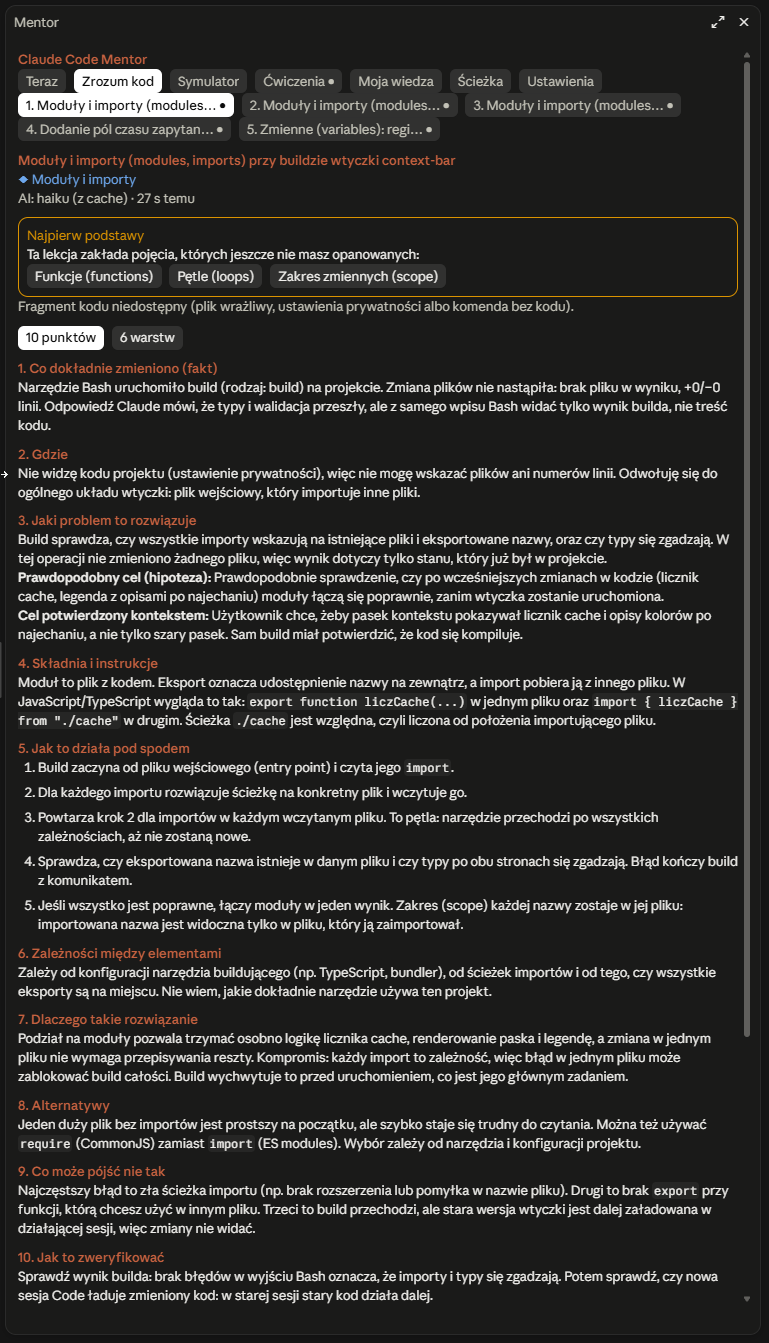
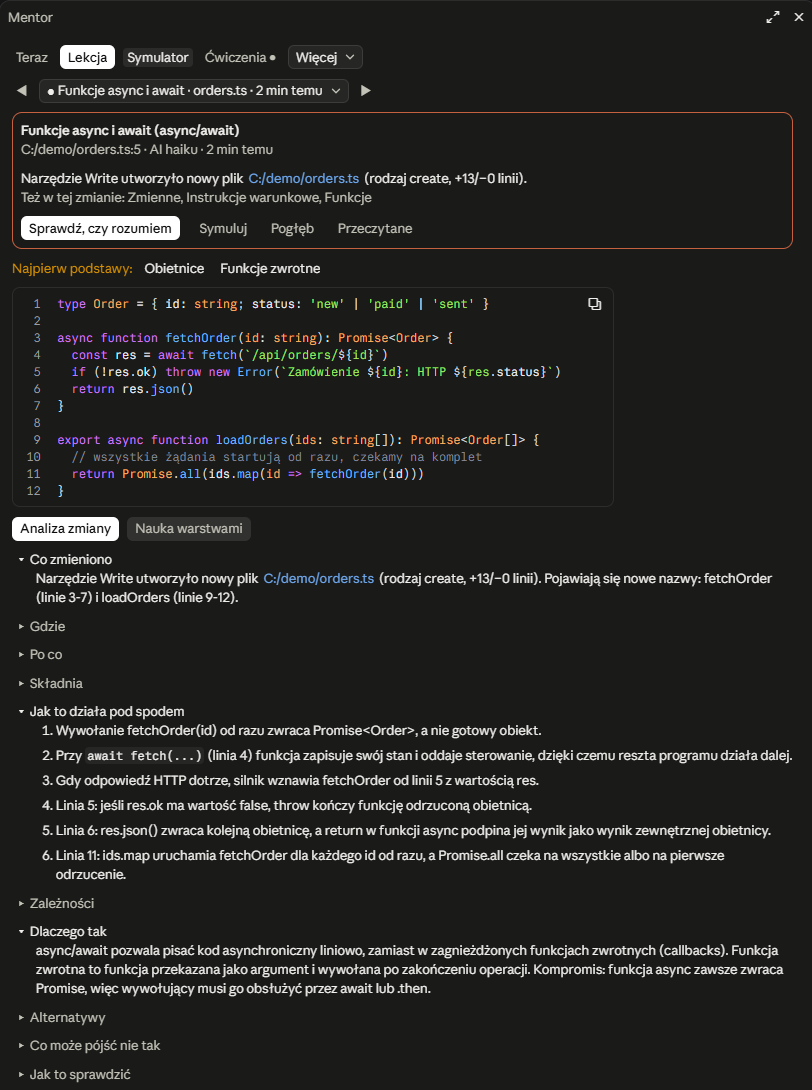
mentor: nowe zrzuty w readme, lekcje ai nie giną na limicie tokenów
odpowiedź modelu ucinała się przy 2200 tokenach i lekcja spadała do wbudowanej, dziś 13 takich wywołań. teraz krótszy prompt, limit 4000, ucięty json jest naprawiany
po /reload-plugins obserwacja i kolejka lekcji startują same, wcześniej stały do nowej sesji
wybór pojęcia preferuje konkretniejsze (async/await zamiast zmienne), rekurencja tylko przy wywołaniu w tej samej funkcji
testy: plugin 29/29

Changed region(s): [[0.0, 0.0, 0.9987, 0.9982], [0.593, 0.0312, 0.8427, 0.0936], [0.9363, 0.0, 0.9675, 0.0312]]

diff --git a/plugins/claude-code-mentor/hooks/register.tsx b/plugins/claude-code-mentor/hooks/register.tsx
@@ -6,7 +6,7 @@
 // API modów dopuszcza `$` tylko jako `$.rzeczownik.metoda(...)`, dlatego hooki
 // budują tu adapter Host z domknięć, a reszta kodu dostaje adapter.
 
-import type { Register } from 'claude-code'
+import type { EngineInterface, Register } from 'claude-code'
 import type { MentorTab } from '../types'
 import { offlineHost, stateOps } from './host'
 import type { Host } from './host'
@@ -32,6 +32,59 @@ const HELP = [
 /** Adapter sesji: zbudowany w session.start, używany przez obserwacje i timery. */
 let HOST: Host | null = null
 
+/** Adapter na `$` danego zdarzenia (funkcja w tym samym pliku, jak pozwala API modów). */
+function makeHost($: EngineInterface): Host {
+  return {
+    ...stateOps(() => $.ui.invalidate('ui.render')),
+    now: () => $.clock.now(),
+    sessionId: () => $.session.id(),
+    sessionRoot: () => $.session.root(),
+    version: async () => (await $.session.version()).version,
+    isGitRepo: async () => (await $.session.repo()) !== null,
+    surfaces: () => $.session.surfaces(),
+    localAppData: () => $.env.get('LOCALAPPDATA'),
+    pluginRoot: $.plugin.root,
+    fsRead: path => $.fs.read(path),
+    fsExists: path => $.fs.exists(path),
+    run: (argv, init) => $.process.run(argv, init),
+    storeGet: key => $.store.get(key),
+    storeSet: (key, value) => $.store.set(key, value),
+    storeDelete: key => $.store.delete(key),
+    complete: req => $.model.complete(req),
+    log: text => $.ui.log(text, { to: 'debug' }),
+    toast: text => $.ui.toast(text),
+    openPane: () => $.ui.open({ id: PANE_ID, title: PANE_TITLE }),
+    panes: () => $.ui.panes(),
+    selection: () => $.ui.selection(),
+  }
+}
+
+/**
+ * Start sesji Mentora: adapter, timer kolejki lekcji, baza. Wołane z session.start,
+ * a leniwie z pierwszego zdarzenia po /reload-plugins, które session.start nie wywołuje.
+ */
+function startSession($: EngineInterface, cwd: string | null, surface: string | null, openPane: boolean): Host {
+  const io = makeHost($)
+  HOST = io
+  $.clock.every(3000, () => {
+    void mentor.tick(io).catch(err => $.ui.log(`claude-code-mentor: kolejka: ${String(err)}`, { to: 'debug' }))
+  })
+  void (async () => {
+    try {
+      await mentor.boot(io, cwd ?? (await $.session.cwd()), surface)
+      if (openPane && mentor.getSettings().autoOpen) await $.ui.open({ id: PANE_ID, title: PANE_TITLE })
+    } catch (err) {
+      $.ui.log(`claude-code-mentor: start: ${String(err)}`, { to: 'debug' })
+    }
+  })()
+  return io
+}
+
+/** Adapter sesji albo start, gdy moduł przeładowano bez session.start. */
+function ensureSession($: EngineInterface): Host {
+  return HOST ?? startSession($, null, null, false)
+}
+
 /** Adapter jednego zdarzenia: jego własne get/set/now (i UI) na bazie adaptera sesji. */
 function scoped(over: Partial<Host> & Pick<Host, 'get' | 'set' | 'now' | 'invalidate'>): Host {
   return { ...(HOST ?? offlineHost(over)), ...over }
@@ -40,30 +93,6 @@ function scoped(over: Partial<Host> & Pick<Host, 'get' | 'set' | 'now' | 'invali
 export const register: Register = on => {
   on('session.start', async ($, e, next) => {
     const started = await next(e)
-    const io: Host = {
-      ...stateOps(() => $.ui.invalidate('ui.render')),
-      now: () => $.clock.now(),
-      sessionId: () => $.session.id(),
-      sessionRoot: () => $.session.root(),
-      version: async () => (await $.session.version()).version,
-      isGitRepo: async () => (await $.session.repo()) !== null,
-      surfaces: () => $.session.surfaces(),
-      localAppData: () => $.env.get('LOCALAPPDATA'),
-      pluginRoot: $.plugin.root,
-      fsRead: path => $.fs.read(path),
-      fsExists: path => $.fs.exists(path),
-      run: (argv, init) => $.process.run(argv, init),
-      storeGet: key => $.store.get(key),
-      storeSet: (key, value) => $.store.set(key, value),
-      storeDelete: key => $.store.delete(key),
-      complete: req => $.model.complete(req),
-      log: text => $.ui.log(text, { to: 'debug' }),
-      toast: text => $.ui.toast(text),
-      openPane: () => $.ui.open({ id: PANE_ID, title: PANE_TITLE }),
-      panes: () => $.ui.panes(),
-      selection: () => $.ui.selection(),
-    }
-    HOST = io
     try {
       await $.command.register({
         name: 'mentor',
@@ -75,22 +104,13 @@ export const register: Register = on => {
       $.ui.log(`claude-code-mentor: rejestracja /mentor: ${String(err)}`, { to: 'debug' })
     }
     // Start w tle: sesja nie czeka na bazę.
-    void (async () => {
-      try {
-        await mentor.boot(io, e.cwd, e.surface)
-        if (mentor.getSettings().autoOpen) await $.ui.open({ id: PANE_ID, title: PANE_TITLE })
-      } catch (err) {
-        $.ui.log(`claude-code-mentor: start: ${String(err)}`, { to: 'debug' })
-      }
-    })()
-    $.clock.every(3000, () => {
-      void mentor.tick(io).catch(err => $.ui.log(`claude-code-mentor: kolejka: ${String(err)}`, { to: 'debug' }))
-    })
+    startSession($, e.cwd, e.surface, true)
     return started
   })
 
   on('prompt.submit', ($, e, next) => {
     try {
+      ensureSession($)
       if (e.origin.kind !== 'plugin') mentor.onPrompt(e.text)
     } catch {
       /* obserwacja nie może blokować promptu */
@@ -100,7 +120,7 @@ export const register: Register = on => {
 
   on('tool.call', async ($, e, next) => {
     const ran = await next(e)
-    const io = HOST
+    const io = OBSERVED.has(String(e.tool)) ? ensureSession($) : HOST
     if (io && OBSERVED.has(String(e.tool))) {
       try {
         await mentor.onTool(io, String(e.tool), e as unknown as Record<string, unknown>, ran as { isError?: true; deny?: string; result?: unknown; text?: string })
@@ -113,14 +133,15 @@ export const register: Register = on => {
 
   on('turn.complete', async ($, e, next) => {
     const result = await next(e)
-    const io = HOST
-    if (io && e.agentId === undefined && !e.isAborted) {
+    const io = ensureSession($)
+    if (e.agentId === undefined && !e.isAborted) {
       void mentor.onTurnComplete(io, e.answer).catch(err => $.ui.log(`claude-code-mentor: analiza tury: ${String(err)}`, { to: 'debug' }))
     }
     return result
   })
 
   on('command.run', { command: 'mentor' }, async ($, e) => {
+    ensureSession($)
     const io = scoped({
       ...stateOps(() => $.ui.invalidate('ui.render')),
       now: () => $.clock.now(),

diff --git a/plugins/claude-code-mentor/hooks/engine/lessons.ts b/plugins/claude-code-mentor/hooks/engine/lessons.ts
@@ -146,7 +146,12 @@ export function lessonRequest(i: LessonInput, sendCode: boolean): { system: stri
   const levels = Object.entries(i.levelsByConcept)
     .map(([id, l]) => `${id}: ${levelName(l)}`)
     .join(', ')
-  const depth = i.deep || i.settings.detail === 'deep' ? 'bardzo szczegółowo' : i.settings.detail === 'short' ? 'krótko (każde pole 1-3 zdania)' : 'normalnie (każde pole 2-6 zdań)'
+  const depth =
+    i.deep || i.settings.detail === 'deep'
+      ? 'szczegółowo, ale każde pole najwyżej ~900 znaków, cała odpowiedź do ~4500 tokenów'
+      : i.settings.detail === 'short'
+        ? 'krótko: każde pole 1-2 zdania, cała odpowiedź do ~1500 tokenów'
+        : 'zwięźle: każde pole 1-4 zdania (najwyżej ~450 znaków), mechanism do 6 kroków, cała odpowiedź do ~2500 tokenów'
   const system = [
     'Jesteś nauczycielem programowania dla początkującego programisty, który pracuje nad prawdziwymi projektami z pomocą Claude Code.',
     'Piszesz po polsku. Terminy techniczne podawaj też po angielsku w nawiasie lub w `backtickach`.',
@@ -186,16 +191,65 @@ function numbered(text: string, start: number): string {
     .join('\n')
 }
 
-export function extractJson(text: string): Record<string, unknown> | null {
-  const start = text.indexOf('{')
-  const end = text.lastIndexOf('}')
-  if (start < 0 || end <= start) return null
-  try {
-    const v = JSON.parse(text.slice(start, end + 1)) as unknown
-    return v && typeof v === 'object' && !Array.isArray(v) ? (v as Record<string, unknown>) : null
-  } catch {
-    return null
+const asObject = (v: unknown): Record<string, unknown> | null => (v && typeof v === 'object' && !Array.isArray(v) ? (v as Record<string, unknown>) : null)
+
+/**
+ * Wyciąga obiekt JSON z odpowiedzi modelu. Gdy odpowiedź ucięto na limicie tokenów,
+ * zostawia pola zakończone w całości (cięcie po ostatnim kompletnym `",` / `"],`) i zamyka obiekt.
+ */
+/** Surowe znaki nowej linii i tabulacji wewnątrz napisów JSON (modele czasem je wstawiają) zamienia na escape. */
+function escapeControlInStrings(s: string): string {
+  let out = ''
+  let inString = false
+  for (let i = 0; i < s.length; i++) {
+    const ch = s[i]!
+    if (inString) {
+      if (ch === '\\') {
+        out += ch + (s[i + 1] ?? '')
+        i++
+        continue
+      }
+      if (ch === '"') inString = false
+      else if (ch === '\n') {
+        out += '\\n'
+        continue
+      } else if (ch === '\r') continue
+      else if (ch === '\t') {
+        out += '\\t'
+        continue
+      }
+    } else if (ch === '"') inString = true
+    out += ch
   }
+  return out
+}
+
+export function extractJson(raw: string): Record<string, unknown> | null {
+  const text = escapeControlInStrings(raw)
+  const start = text.indexOf('{')
+  if (start < 0) return null
+  const end = text.lastIndexOf('}')
+  if (end > start) {
+    try {
+      const v = asObject(JSON.parse(text.slice(start, end + 1)))
+      if (v) return v
+    } catch {
+      /* ucięta odpowiedź: próbujemy naprawić niżej */
+    }
+  }
+  const body = text.slice(start)
+  const cuts: number[] = []
+  const re = /("|\]|null|true|false|\d)\s*,\s*"/g
+  for (let m = re.exec(body); m; m = re.exec(body)) cuts.push(m.index + m[1]!.length)
+  for (const cut of cuts.reverse().slice(0, 40)) {
+    try {
+      const v = asObject(JSON.parse(body.slice(0, cut) + '}'))
+      if (v) return v
+    } catch {
+      /* następne cięcie */
+    }
+  }
+  return null
 }
 
 const str = (v: unknown, fallback = ''): string => (typeof v === 'string' ? v : Array.isArray(v) ? v.filter(x => typeof x === 'string').join('\n') : fallback)

diff --git a/plugins/claude-code-mentor/tests/engine.test.ts b/plugins/claude-code-mentor/tests/engine.test.ts
@@ -3,7 +3,7 @@ import { expect, test } from 'claude-code/testing'
 import { isSensitivePath, redact, safeSnippet } from '../hooks/engine/redact'
 import { classifyCommand, detectConcepts, newSymbols } from '../hooks/engine/detect'
 import { factsFromPatch } from '../hooks/engine/diff'
-import { builtinLesson, lessonRequest } from '../hooks/engine/lessons'
+import { builtinLesson, extractJson, lessonRequest } from '../hooks/engine/lessons'
 import { boundaryQuestion, gradeChoice, parseGrade, predictOutputQuestion } from '../hooks/engine/quiz'
 import { CONCEPTS } from '../hooks/content/concepts'
 import { missingPrereqs, recommend } from '../hooks/engine/graph'
@@ -153,4 +153,22 @@ test('C: pliki niebędące kodem nie dają fałszywych pojęć', async () => {
   expect(classifyCommand('git grep -n foo').kind).toBe('bash')
   expect(classifyCommand('git status').kind).toBe('bash')
   expect(classifyCommand('git commit -m "x"').kind).toBe('git')
+})
+
+test('D: lekcja z uciętej odpowiedzi modelu (limit tokenów) nie przepada', async () => {
+
+  const cut = '```json\n{\n  "title": "Async/await w checkout",\n  "observed": "Nowy plik checkout.ts",\n  "mechanism": "1. Funkcja async zwraca Promise.\n2. await zawiesza",\n  "why": "Bo fetch trwa'
+  const j = extractJson(cut)
+  expect(j?.title).toBe('Async/await w checkout')
+  expect(j?.mechanism).toMatch(/await zawiesza/)
+  expect(j?.why).toBe(undefined)
+  expect(extractJson('{"a": "ok"}')?.a).toBe('ok')
+  expect(extractJson('brak json')).toBe(null)
+})
+
+test('C: rekurencja tylko przy wywołaniu w ciele tej samej funkcji', async () => {
+  const notRec = lines('async function fetchOrder(id: string) {\n  return fetch(id)\n}\n\nexport async function loadOrders(ids: string[]) {\n  return Promise.all(ids.map(id => fetchOrder(id)))\n}')
+  expect(detectConcepts('ts', notRec).map(h => h.id)).not.toContain('recursion')
+  const rec = lines('function fact(n: number): number {\n  if (n <= 1) return 1\n  return n * fact(n - 1)\n}')
+  expect(detectConcepts('ts', rec).map(h => h.id)).toContain('recursion')
 })

diff --git a/plugins/claude-code-mentor/hooks/mentor.ts b/plugins/claude-code-mentor/hooks/mentor.ts
@@ -21,7 +21,7 @@ import { Breaker, COST_PROFILES, estimateTokens, MANUAL_LIMIT, MIN_GAP_MS, today
 import { classifyCommand, detectConcepts, isConfigFile, newSymbols } from './engine/detect'
 import { factsFromContent, factsFromPatch, langOf } from './engine/diff'
 import type { ChangeFacts, Hunk } from './engine/diff'
-import { missingPrereqs } from './engine/graph'
+import { depthMap, missingPrereqs } from './engine/graph'
 import { hash, makeId } from './engine/hash'
 import { builtinLesson, extractJson, lessonRequest, levelName, mergeModelLesson } from './engine/lessons'
 import type { LessonInput } from './engine/lessons'
@@ -37,6 +37,7 @@ type Detail = { snippet: string; start: number; lang: string; unified: string; f
 type Job = { id: string; kind: 'auto' | 'manual'; conceptId: string; obsId: string; deep: boolean; task: string | null; note: string | null; at: number }
 
 const BY_ID = new Map<string, ConceptDef>(CONCEPTS.map(c => [c.id, c]))
+const DEPTH = depthMap(CONCEPTS)
 export const conceptById = (id: string): ConceptDef | undefined => BY_ID.get(id)
 
 const errText = (e: unknown): string => (e instanceof Error ? e.message : String(e))
@@ -274,7 +275,8 @@ export class Mentor {
   }
 
   private rel(path: string): string {
-    const r = norm(this.projectRoot)
+    // Bez końcowego ukośnika, inaczej katalog główny dysku (C:\) nigdy nie pasuje.
+    const r = norm(this.projectRoot).replace(/\/+$/, '')
     const p = path.replace(/\\/g, '/')
     return norm(p).startsWith(r + '/') ? p.slice(r.length + 1) : p
   }
@@ -396,7 +398,8 @@ export class Mentor {
         if (o.kind === 'fix' || o.kind === 'error') score *= 1.4
         if (this.taught.has(id)) score *= 0.15
         if ((k?.level ?? 0) >= 4 && !k?.due) score *= 0.1
-        if (o.concepts.indexOf(id) === 0) score *= 1.1
+        // Konkretniejsze pojęcie (głębiej w grafie zależności) mówi o zmianie więcej niż ogólne.
+        score *= 1 + 0.12 * (DEPTH.get(id) ?? 0)
         if (!best || score > best.score) best = { o, c, score }
       }
     }

diff --git a/plugins/claude-code-mentor/hooks/engine/budget.ts b/plugins/claude-code-mentor/hooks/engine/budget.ts
@@ -8,9 +8,9 @@ export type CostProfile = { autoCallsPerDay: number; tokensPerDay: number; maxTo
 
 export const COST_PROFILES: Record<MentorCost, CostProfile> = {
   off: { autoCallsPerDay: 0, tokensPerDay: 0, maxTokensPerLesson: 0, label: 'Wyłączone: tylko lekcje wbudowane, bez wywołań modelu' },
-  saver: { autoCallsPerDay: 8, tokensPerDay: 40000, maxTokensPerLesson: 1400, label: 'Oszczędny: do 8 automatycznych lekcji AI dziennie' },
-  balanced: { autoCallsPerDay: 25, tokensPerDay: 150000, maxTokensPerLesson: 2200, label: 'Zrównoważony: do 25 lekcji AI dziennie' },
-  generous: { autoCallsPerDay: 60, tokensPerDay: 400000, maxTokensPerLesson: 3200, label: 'Hojny: do 60 lekcji AI dziennie' },
+  saver: { autoCallsPerDay: 8, tokensPerDay: 40000, maxTokensPerLesson: 2500, label: 'Oszczędny: do 8 automatycznych lekcji AI dziennie' },
+  balanced: { autoCallsPerDay: 25, tokensPerDay: 150000, maxTokensPerLesson: 4000, label: 'Zrównoważony: do 25 lekcji AI dziennie' },
+  generous: { autoCallsPerDay: 60, tokensPerDay: 400000, maxTokensPerLesson: 6000, label: 'Hojny: do 60 lekcji AI dziennie' },
 }
 
 /** Ręczne prośby (przycisk, /mentor explain) mają osobny, wyższy limit. */

diff --git a/plugins/claude-code-mentor/hooks/engine/detect.ts b/plugins/claude-code-mentor/hooks/engine/detect.ts
@@ -24,7 +24,8 @@ const RULES: Rule[] = [
   { id: 'strings', re: /`[^`]*\$\{|f["'][^"']*\{|\.(split|trim|replace|toUpperCase|toLowerCase|substring|padStart)\(/ },
   { id: 'null-undefined', langs: [...JS, 'php', 'py'], re: /\?\?|\?\.|\b(null|undefined|None)\b/ },
   { id: 'type-coercion', langs: JS, re: /\b(Number|String|Boolean|parseInt|parseFloat)\(|[^=!]==[^=]|!!\w/ },
-  { id: 'recursion', re: /\bfunction\s+(\w+)[^]*?\b\1\s*\(/ },
+  // Rekurencja: wywołanie własnej nazwy w ciele tej samej funkcji (przed kolejną deklaracją funkcji).
+  { id: 'recursion', re: /\bfunction\s+(\w+)\s*(?:<[^>]*>)?\([^)]*\)[^{]*\{(?:(?!\bfunction\b|\n\}).)*?\b\1\s*\(/s },
   // struktury danych
   { id: 'arrays', re: /\[[^\]]*,[^\]]*\]|\.(push|pop|map|filter|reduce|find|some|every|slice|splice|includes)\(|\barray_\w+\(|\bappend\(/ },
   { id: 'objects-maps', re: /\{\s*[\w"']+\s*:|\bnew Map\(|\bdict\(|\[\s*['"]\w+['"]\s*=>/ },

diff --git a/README.md b/README.md
@@ -6,7 +6,7 @@
   <a href="#instalacja"><img alt="Claude Code" src="https://img.shields.io/badge/Claude%20Code-mod-d97757?style=flat-square"></a>
   <a href="#wymagania"><img alt="Windows 11" src="https://img.shields.io/badge/Windows-11-0078d4?style=flat-square"></a>
   <a href="#wymagania"><img alt="Node 22.5+" src="https://img.shields.io/badge/Node-22.5%2B-339933?style=flat-square"></a>
-  <a href="#testy"><img alt="testy" src="https://img.shields.io/badge/testy-47%20%2F%2047-16a34a?style=flat-square"></a>
+  <a href="#testy"><img alt="testy" src="https://img.shields.io/badge/testy-49%20%2F%2049-16a34a?style=flat-square"></a>
   <a href="#prywatność"><img alt="local-first" src="https://img.shields.io/badge/dane-tylko%20lokalnie-827dbd?style=flat-square"></a>
 </p>
 
@@ -167,16 +167,30 @@ pwsh -File scripts\diagnose.ps1               # diagnostyka, niczego nie zmienia
 
 ## Claude Code Mentor
 
-<p align="center">
-  <img src="docs/assets/mentor-lesson.png" alt="Lekcja w panelu Mentor" width="520">
-</p>
+<table>
+  <tr>
+    <td width="50%" valign="top" align="center">
+      <img src="docs/assets/mentor-lesson.png" alt="Lekcja AI o async/await na prawdziwym pliku z projektu" width="100%"><br>
+      <sub><b>Lekcja</b>: kod z projektu z numerami linii, mechanizm krok po kroku, sekcje do rozwinięcia</sub>
+    </td>
+    <td width="50%" valign="top" align="center">
+      <img src="docs/assets/mentor-now.png" alt="Zakładka Teraz" width="100%"><br>
+      <sub><b>Teraz</b>: najważniejsza rzecz do zrozumienia, brakujące podstawy, ostatnie zmiany Claude</sub>
+      <br><br>
+      <img src="docs/assets/mentor-simulator.png" alt="Symulator async/await z kolejkami event loop" width="100%"><br>
+      <sub><b>Symulator</b>: async/await krok po kroku, kolejki mikro i makro, wyjście</sub>
+    </td>
+  </tr>
+</table>
 
-### Siedem zakładek
+### Siedem widoków
+
+Główne zakładki to **Teraz**, **Lekcja**, **Symulator** i **Ćwiczenia**. Pozostałe są w menu **Więcej**.
 
 | Zakładka | Co zawiera |
 |---|---|
 | **Teraz** | projekt, ostatnie operacje Claude (plik, linia, +/−), wykryte mechanizmy, najważniejsza rzecz do zrozumienia, brakujące podstawy, powtórki |
-| **Zrozum kod** | lekcja o konkretnej zmianie w dwóch widokach: *Analiza zmiany* (co, gdzie, po co, składnia, mechanizm, zależności, dlaczego, alternatywy, błędy, weryfikacja) albo *Nauka warstwami* (intuicja, kod, mechanizm, dlaczego, praktyka, sprawdzenie) |
+| **Lekcja** | lekcja o konkretnej zmianie w dwóch widokach: *Analiza zmiany* (co, gdzie, po co, składnia, mechanizm, zależności, dlaczego, alternatywy, błędy, weryfikacja) albo *Nauka warstwami* (intuicja, kod, mechanizm, dlaczego, praktyka, sprawdzenie) |
 | **Symulator** | wykonanie krok po kroku, eksplorator warunków dla JS, Pythona i PHP, piaskownica SQL |
 | **Ćwiczenia** | pytania o Twój kod, ocena, wykryte nieporozumienia, przykład z innej strony, zadanie utrwalające |
 | **Moja wiedza** | pojęcia na 5 poziomach, opanowanie, pewność oceny, historia, błędne przekonania |
@@ -298,7 +312,7 @@ Najważniejsze decyzje:
 
 | Zestaw | Wynik |
 |---|---|
-| `claude plugin test plugins/claude-code-mentor`: symulator, silnik, prywatność, UI na Desktop i w terminalu, przezroczystość hooków | 27 / 27 |
+| `claude plugin test plugins/claude-code-mentor`: symulator, silnik, prywatność, UI na Desktop i w terminalu, przezroczystość hooków | 29 / 29 |
 | `node --test` helpera bazy: migracje, model opanowania, 8 procesów równolegle, eksport i import, idempotencja | 15 / 15 |
 | `node --test` piaskownicy SQL: NULL jako UNKNOWN, LEFT JOIN, COUNT(kolumna), blokada ATTACH | 5 / 5 |
 | `claude plugin validate`: marketplace i oba pluginy | ✔ |

diff --git a/docs/TESTING.md b/docs/TESTING.md
@@ -10,7 +10,7 @@ node --no-warnings --test "plugins/claude-code-mentor/helper/test/*.test.mjs"
 
 | Zestaw | Wynik |
 |---|---|
-| Testy pluginu (symulator, silnik, prywatność, UI desktop i terminal, hooki) | 27 / 27 |
+| Testy pluginu (symulator, silnik, prywatność, UI desktop i terminal, hooki) | 29 / 29 |
 | Helper bazy (migracje, model opanowania, współbieżność 8 procesów, eksport i import) | 15 / 15 |
 | Piaskownica SQL | 5 / 5 |
 | Walidacja marketplace i obu pluginów | ✔ |
